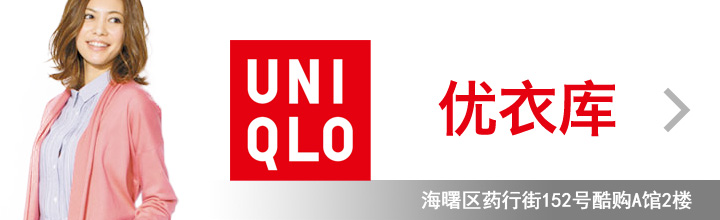
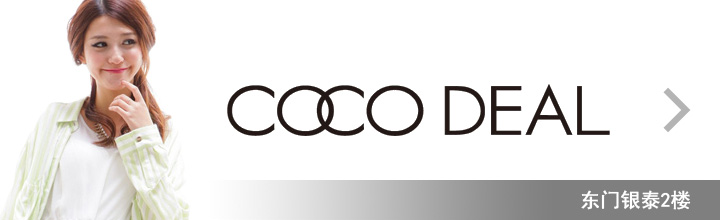
add brand

diff --git a/app/controllers/application_controller.rb b/app/controllers/application_controller.rb
@@ -102,7 +102,7 @@ class ApplicationController < ActionController::Base
   end
 
   def get_ids
-    array = [1031, 1030, 1029, 1028, 1027, 1025, 1024, 1023, 1022, 1021, 1020, 1019, 1018, 1017, 1015, 1011, 915, 910, 907, 885, 854, 853, 852, 851, 850, 848, 847, 843, 838, 837, 828, 827, 826, 825, 823, 821, 819, 818, 817, 816, 814, 813, 809, 808, 807, 806, 805, 804, 803, 802, 798, 797, 795, 793, 788, 787, 786, 784, 783, 782, 772, 769, 1093, 1092, 1091, 1090, 1089, 1088, 1087, 1086, 1085, 1084, 1083, 1082, 1081, 1080, 1079, 1078, 1077, 1076, 1075, 1074, 1073, 1072, 1071, 1070, 993, 992, 991, 990, 989, 988, 981, 980, 979, 978, 977, 976, 975, 974, 973, 972, 971, 970, 969, 968, 967, 966, 965, 964, 963, 962, 961, 960, 959, 958, 957, 1421, 1420, 1419, 1418, 1416, 1415, 1414, 1413, 1412, 1411, 1410, 1409, 1408, 1407, 1406, 1405, 1404, 1403, 1402, 1401, 1400, 1008, 1006, 1005, 1004, 1002, 1000, 999, 998, 996, 995, 994, 1119, 1118, 1117, 1116, 1115, 1114, 1113, 1112, 1111, 1110, 1109, 1108, 1107, 1106, 1105, 1104, 1103, 1102, 1101, 1056, 1055, 1054, 1053, 1052, 1051, 1050, 1049, 1048, 1047, 1046, 1045, 1044, 1043, 1042, 1041, 1040, 1039, 1038, 1037, 1036, 1035, 1034, 1033, 1032, 987, 986, 985, 984, 983, 875, 874, 873, 872, 871, 870, 869, 868, 867, 866, 865, 864, 863, 862, 861, 860, 859, 857, 856, 855, 1385, 1384, 1383, 1382, 1381, 1380, 1379, 1378, 1377, 1376, 1375, 1374, 1373, 1372, 1371, 1370, 1369, 1368, 1367, 1366, 1365, 1364, 1363, 1362, 1361, 1360, 1359, 1358, 1357, 1356, 1355, 1354, 1353, 1352, 1351, 1350, 1349, 1348, 1347, 1346, 1310, 1309, 1308, 1307, 1306, 1305, 1304, 1303, 1302, 1301, 1300, 1299, 1298, 1296, 1295, 1294, 1293, 1292, 1291, 1290, 1289, 1288, 1287, 1286, 1285, 1284, 1283, 1282, 1281, 1280, 1279, 1278, 1277, 1276, 1275, 1274, 1273, 1272, 1271, 1270, 1269, 1268, 1267, 1266, 1265, 1264, 1263, 1262, 1261, 1260, 1259, 1258, 1257, 1256, 1255, 1254, 1253, 1252, 1251, 1250, 1249, 1248, 1247, 1246, 1245, 1244, 1243, 1242, 1241, 1240, 1239, 1238, 1237, 1236, 1235, 1234, 1233, 1232, 1231, 1230, 1229, 1228, 1227, 1226, 1225, 1224, 1223, 1222, 1221, 1220, 1219, 1218, 1217, 1216, 1215, 1214, 1213, 1212, 1211, 1210, 1209, 1208, 1207, 1206, 1205, 1204, 1203, 1202, 1201, 1200, 1199, 1198, 1197, 1196, 1195, 1194, 1193, 1192, 1191, 1190, 1189, 1188, 1187, 1186, 1185, 1184, 1183, 1182, 1181, 1180, 1179, 1178, 1177, 1176, 1175, 1174, 1173, 1172, 1171, 1170, 1169, 1168, 1167, 1166, 1165, 1164, 1163, 1162, 1161, 1160, 1159, 1158, 1157, 1156, 1155, 1154, 1153, 1152, 1151, 1150, 1149, 1148, 1147, 1146, 1145, 1144, 1143, 1142, 1141, 1140, 1139, 1138, 1137, 1136, 1135, 1134, 1133, 1132, 1131, 1130, 1129, 1128, 1127, 1126, 1125, 1124, 1123, 1122, 1121, 1120, 1388, 1387, 1386, 1100, 1099, 1098, 1097, 1096, 1095, 1094, 1473, 1472, 1471, 1470, 1469, 1468, 1399, 1398, 1397, 1395, 1394, 1393, 1392, 1391, 1390, 1389, 1330, 1329, 1328, 1327, 1326, 1325, 1324, 1323, 1322, 1321, 1320, 1319, 1318, 1317, 1316, 1315, 1314, 1313, 1312, 1311, 1068, 1067, 1066, 1063, 1062, 1061, 1060, 1058, 1057, 949, 948, 916, 903, 882, 834, 833, 832, 831, 830, 791, 780, 779, 778, 777, 764, 762, 761, 760, 759, 758, 757, 756, 744, 1444, 1443, 1442, 1441, 1440, 1439, 1438, 1437, 1436, 1435, 1434, 1433, 1432, 1431, 1430, 1429, 1428, 1427, 1426, 1425, 1424, 1423, 1422, 955, 954, 952, 951, 950]
+    array = [1345, 1344, 1343, 1342, 1341, 1340, 1339, 1338, 1337, 1336, 1335, 1334, 1333, 1332, 1331, 1031, 1030, 1029, 1028, 1027, 1025, 1024, 1023, 1022, 1021, 1020, 1019, 1018, 1017, 1015, 1011, 915, 910, 907, 885, 854, 853, 852, 851, 850, 848, 847, 843, 838, 837, 828, 827, 826, 825, 823, 821, 819, 818, 817, 816, 814, 813, 809, 808, 807, 806, 805, 804, 803, 802, 798, 797, 795, 793, 788, 787, 786, 784, 783, 782, 772, 769, 1093, 1092, 1091, 1090, 1089, 1088, 1087, 1086, 1085, 1084, 1083, 1082, 1081, 1080, 1079, 1078, 1077, 1076, 1075, 1074, 1073, 1072, 1071, 1070, 993, 992, 991, 990, 989, 988, 981, 980, 979, 978, 977, 976, 975, 974, 973, 972, 971, 970, 969, 968, 967, 966, 965, 964, 963, 962, 961, 960, 959, 958, 957, 1493, 1492, 1491, 1490, 1489, 1488, 1487, 1486, 1485, 1484, 1483, 1482, 1481, 1480, 1479, 1478, 1477, 1476, 1475, 1474, 1421, 1420, 1419, 1418, 1416, 1415, 1414, 1413, 1412, 1411, 1410, 1409, 1408, 1407, 1406, 1405, 1404, 1403, 1402, 1401, 1400, 1008, 1006, 1005, 1004, 1002, 1000, 999, 998, 996, 995, 994, 1119, 1118, 1117, 1116, 1115, 1114, 1113, 1112, 1111, 1110, 1109, 1108, 1107, 1106, 1105, 1104, 1103, 1102, 1101, 1056, 1055, 1054, 1053, 1052, 1051, 1050, 1049, 1048, 1047, 1046, 1045, 1044, 1043, 1042, 1041, 1040, 1039, 1038, 1037, 1036, 1035, 1034, 1033, 1032, 987, 986, 985, 984, 983, 875, 874, 873, 872, 871, 870, 869, 868, 867, 866, 865, 864, 863, 862, 861, 860, 859, 857, 856, 855, 1385, 1384, 1383, 1382, 1381, 1380, 1379, 1378, 1377, 1376, 1375, 1374, 1373, 1372, 1371, 1370, 1369, 1368, 1367, 1366, 1365, 1364, 1363, 1362, 1361, 1360, 1359, 1358, 1357, 1356, 1355, 1354, 1353, 1352, 1351, 1350, 1349, 1348, 1347, 1346, 1310, 1309, 1308, 1307, 1306, 1305, 1304, 1303, 1302, 1301, 1300, 1299, 1298, 1296, 1295, 1294, 1293, 1292, 1291, 1290, 1289, 1288, 1287, 1286, 1285, 1284, 1283, 1282, 1281, 1280, 1279, 1278, 1277, 1276, 1275, 1274, 1273, 1272, 1271, 1270, 1269, 1268, 1267, 1266, 1265, 1264, 1263, 1262, 1261, 1260, 1259, 1258, 1257, 1256, 1255, 1254, 1253, 1252, 1251, 1250, 1249, 1248, 1247, 1246, 1245, 1244, 1243, 1242, 1241, 1240, 1239, 1238, 1237, 1236, 1235, 1234, 1233, 1232, 1231, 1230, 1229, 1228, 1227, 1226, 1225, 1224, 1223, 1222, 1221, 1220, 1219, 1218, 1217, 1216, 1215, 1214, 1213, 1212, 1211, 1210, 1209, 1208, 1207, 1206, 1205, 1204, 1203, 1202, 1201, 1200, 1199, 1198, 1197, 1196, 1195, 1194, 1193, 1192, 1191, 1190, 1189, 1188, 1187, 1186, 1185, 1184, 1183, 1182, 1181, 1180, 1179, 1178, 1177, 1176, 1175, 1174, 1173, 1172, 1171, 1170, 1169, 1168, 1167, 1166, 1165, 1164, 1163, 1162, 1161, 1160, 1159, 1158, 1157, 1156, 1155, 1154, 1153, 1152, 1151, 1150, 1149, 1148, 1147, 1146, 1145, 1144, 1143, 1142, 1141, 1140, 1139, 1138, 1137, 1136, 1135, 1134, 1133, 1132, 1131, 1130, 1129, 1128, 1127, 1126, 1125, 1124, 1123, 1122, 1121, 1120, 1467, 1466, 1465, 1464, 1463, 1462, 1461, 1460, 1459, 1458, 1457, 1456, 1455, 1454, 1453, 1452, 1451, 1450, 1449, 1448, 1447, 1446, 1445, 1388, 1387, 1386, 1100, 1099, 1098, 1097, 1096, 1095, 1094, 1473, 1472, 1471, 1470, 1469, 1468, 1399, 1398, 1397, 1395, 1394, 1393, 1392, 1391, 1390, 1389, 1330, 1329, 1328, 1327, 1326, 1325, 1324, 1323, 1322, 1321, 1320, 1319, 1318, 1317, 1316, 1315, 1314, 1313, 1312, 1311, 1068, 1067, 1066, 1063, 1062, 1061, 1060, 1058, 1057, 949, 948, 916, 903, 882, 834, 833, 832, 831, 830, 791, 780, 779, 778, 777, 764, 762, 761, 760, 759, 758, 757, 756, 744, 1444, 1443, 1442, 1441, 1440, 1439, 1438, 1437, 1436, 1435, 1434, 1433, 1432, 1431, 1430, 1429, 1428, 1427, 1426, 1425, 1424, 1423, 1422, 955, 954, 952, 951, 950]
 
   end
 end

diff --git a/app/controllers/home_controller.rb b/app/controllers/home_controller.rb
@@ -118,8 +118,24 @@ class HomeController < ApplicationController
 
   def order
     @id = params[:id]
-    resp = shiyi_conn2.get '/api/v2/goods/detail', {:id => params[:id], :is_wifi => false}
-    goods = ActiveSupport::JSON.decode(resp.body)
+    cache_key = "web_detail?id=#{params[:id]}"
+
+    result = nil
+    if Rails.env.production?
+      result = redis_cache_get(cache_key)
+    end
+
+    goods = nil
+    if result
+      goods = ActiveSupport::JSON.decode(result)
+    else
+      resp = shiyi_conn2.get '/api/v2/goods/detail', {:id => params[:id], :is_wifi => false}
+      goods = ActiveSupport::JSON.decode(resp.body)
+      if Rails.env.production?
+        redis_cache_set(cache_key,resp.body,2.hours)
+      end
+    end
+
     if goods
       @color = Array.new;
       @measure = Hash.new;

diff --git a/app/helpers/application_helper.rb b/app/helpers/application_helper.rb
@@ -4,11 +4,11 @@ module ApplicationHelper
   # 首页上展示的品牌 ids
   def get_brand
     array={
-        #'240'=>%w[,COCO DEA 可可迪尔],
+        '240'=>['1.jpg','COCO DEAL 可可迪尔'],
 
         '217'=>['2.jpg', 'five plus'],
         '229'=>['13.jpg', 'GOELIA 歌莉娅'],
-        #'148'=>['9.jpg', 'H&M'],
+        '245'=>['9.jpg', '诗凡黎'],
         '235'=>['8.jpg', 'LILY'],
 
         '238'=>['5.jpg', 'MANGO'],
@@ -16,7 +16,7 @@ module ApplicationHelper
         '221'=>['7.jpg', 'OCHIRLY 欧时力'],
         '237'=>['6.jpg', 'ONLY'],
 
-        #'75'=>['1.jpg', 'UNIQLO 优衣库'],
+        '242'=>['14.jpg', 'HPLY 荷比丽'],
         '239'=>['10.jpg', 'VERO MODA'],
         '232'=>['11.jpg', 'ZARA'],
         '241'=>['12.jpg', 'EIFINI 伊芙丽'],
